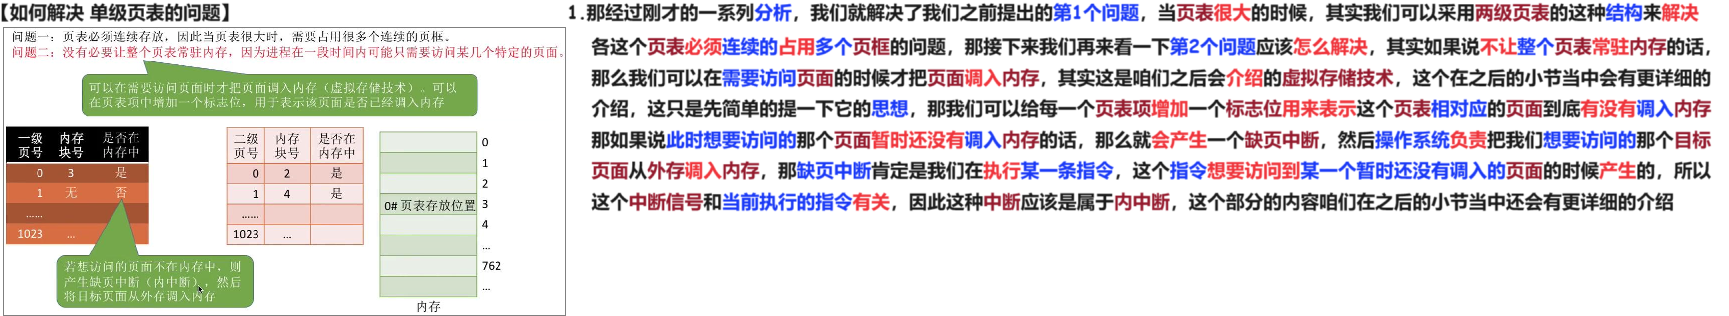
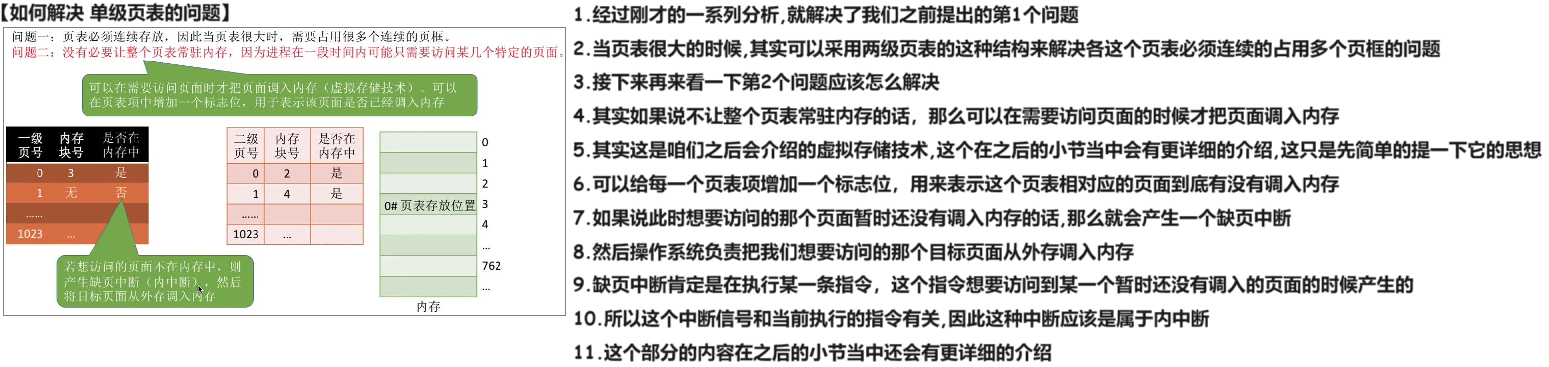
240628

diff --git a/01 初试/01 OS/02 24 25 王道/01 基础/03 内存管理/01 内存管理 概念/10 两级页表 240628/02 消化/02 Doc.md b/01 初试/01 OS/02 24 25 王道/01 基础/03 内存管理/01 内存管理 概念/10 两级页表 240628/02 消化/02 Doc.md
@@ -34,13 +34,13 @@
 
 # 06 如何解决 单级页表的问题
 
-<img src="https://cvp.oss-cn-shanghai.aliyuncs.com/picgo/202405150953347.png" alt="image-20240515095319138" style="zoom: 50%;" />
+<img src="https://cvp.oss-cn-shanghai.aliyuncs.com/picgo/202406281144620.png" alt="image-20240628114418386" style="zoom:50%;" />
 
 
 
 # 07 需要注意的几个细节
 
-<img src="https://cvp.oss-cn-shanghai.aliyuncs.com/picgo/202405151019113.png" alt="image-20240515101938749" style="zoom:50%;" />
+
 
 
 
